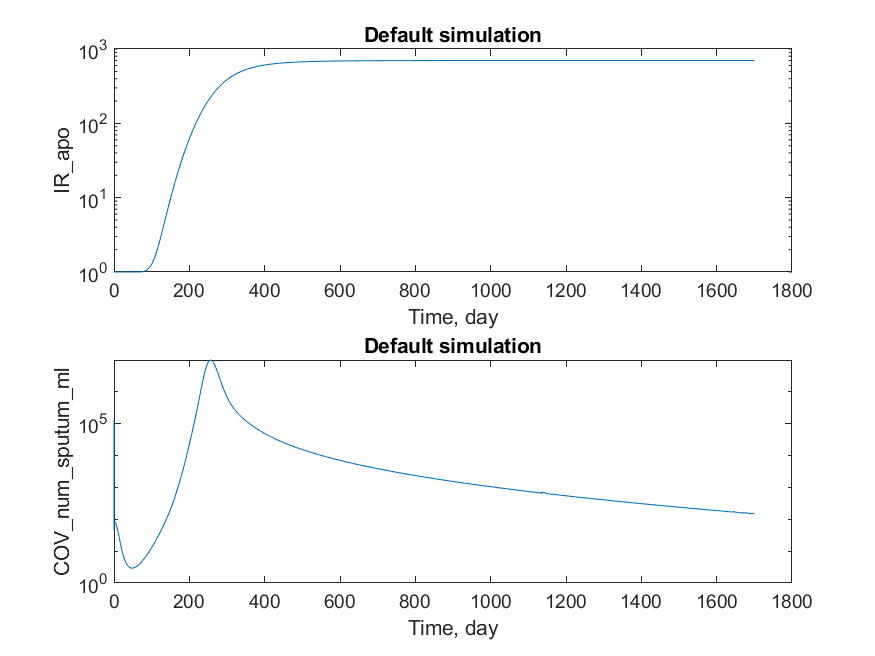
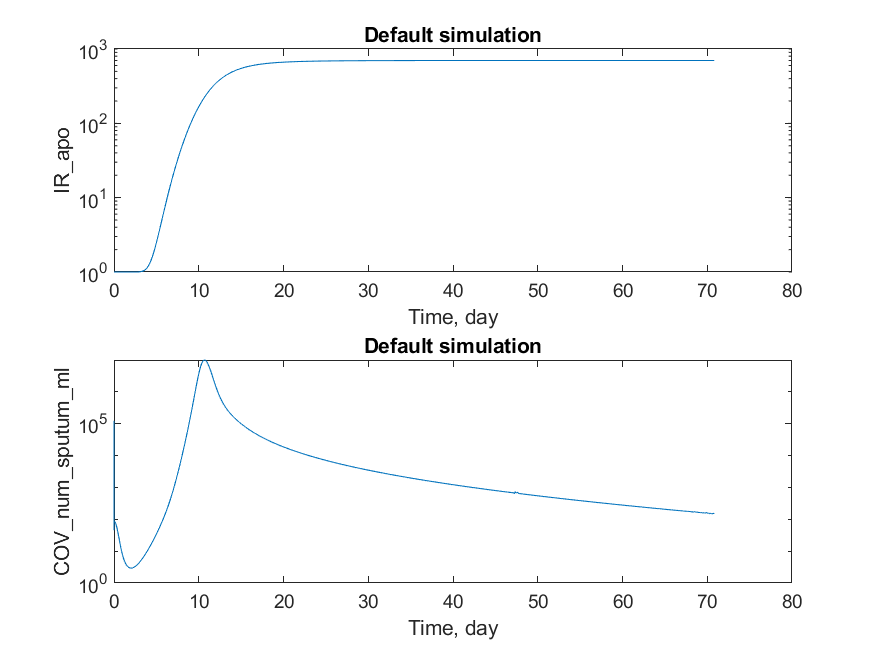
set day in simulations  comparison

diff --git a/diagnostics/matlab/run.m b/diagnostics/matlab/run.m
@@ -3,7 +3,7 @@ addpath("../../dist/covid19_integrated_matlab")
 
 p_names = ["kcell_to_cell", "NA_pmole", "sputum_dilution_coef", "k_apo_pc", "kbase_apo_vpc", "kbase_tran_pc_ipc", "kbase_tran_ipc_vpc", "k_shed_ace2_pc", "k_off_cov_ace2", "Num_sp_per_cov", "Kd_spike_ace2", "k_ent_cov_ipc", "k_rel_cov_vpc", "k_unc_cov_vpc", "k_rep_cov_rna_vpc", "EC50_rep_cov_rna_vpc", "k_ass_cov_vpc", "k_deg_cov", "Nmax_cov_per_cell", "k_deg_cov_rna", "T_sw_ir", "ET50_ir", "Emax_ir_apo", "n_ir", "Kd_anti_Ab", "anti_Ab_max", "Vol_pc", "L_to_mL"];
 output_names = ["time_day", "COVass_vpc", "Vol_alv", "vPC", "COVass_vpc_per_cell", "COV", "COV_RNA", "COV_num_sputum_ml", "PC", "iPC", "PC_tot", "PC_percent", "iPC_percent", "vPC_percent", "ACE2_pc", "ACE2_pc_per_cell", "COV_ACE2_pc", "COV_ACE2_pc_per_cell", "ACE2_pc_per_cell_tot", "ACE2_ipc", "ACE2_ipc_per_cell", "COV_ACE2_ipc", "COV_ACE2_ipc_per_cell", "ACE2_ipc_per_cell_tot", "ACE2_vpc", "ACE2_vpc_per_cell", "COV_ACE2_vpc", "COV_ACE2_vpc_per_cell", "ACE2_vpc_per_cell_tot", "COV_pc_per_cell_tot", "COV_ipc", "COV_ipc_per_cell", "COV_ipc_per_cell_tot", "COV_vpc", "COV_vpc_per_cell", "COV_RNA_vpc", "COV_RNA_vpc_per_cell", "COV_vpc_per_cell_tot", "COV_sgRNA_perc", "PC_hs_ss", "V_mat_pc", "k_tran_pc_ipc", "V_tran_pc_ipc", "k_tran_ipc_vpc", "V_tran_ipc_vpc", "V_apo_pc", "V_apo_ipc", "switch_ir", "IR_apo", "k_apo_vpc", "V_apo_vpc", "ACE2_pc_hs_ss", "k_syn_ace2_pc", "V_syn_ace2_pc", "V_shed_ace2_pc", "steric_factor_pc", "anti_Ab", "VO", "Kd_cov_ace2", "V_bind_cov_ace2_pc", "V_deg_ace2_apo_pc", "V_deg_cov_ace2_apo_pc", "V_tran_ace2_pc_ipc", "V_tran_cov_ace2_pc_ipc", "V_syn_ace2_ipc", "V_shed_ace2_ipc", "steric_factor_ipc", "V_bind_cov_ace2_ipc", "V_deg_ace2_apo_ipc", "V_deg_cov_ace2_apo_ipc", "V_deg_cov_apo_ipc", "V_ent_cov_ipc", "V_tran_ace2_ipc_vpc", "V_tran_cov_ace2_ipc_vpc", "V_tran_cov_ipc_vpc", "V_syn_ace2_vpc", "V_shed_ace2_vpc", "steric_factor_vpc", "V_bind_cov_ace2_vpc", "V_deg_ace2_apo_vpc", "V_deg_cov_ace2_apo_vpc", "V_ent_cov_vpc", "V_unc_cov_vpc", "V_rep_cov_rna_vpc", "V_ass_cov_vpc", "V_rel_cov_vpc", "V_deg_cov_apo_vpc", "V_deg_cov_ass_apo_vpc", "V_deg_cov_rna_apo_vpc", "V_deg_cov", "V_deg_cov_rna"];
-show_names = ["IR_apo", "COV_num_sputum_ml"];
+show_names = ["IR_apo", "COV_num_sputum_ml", "time_day"];
 
 p = param();
 [ode_func, out_func, y0, events] = model(p);
@@ -33,13 +33,13 @@ end
 fig = figure(1);
 % plot IR_apo
 subplot(2, 1, 1); % [rows, colomns]
-semilogy(tout, output(:, loc(1)));
+semilogy(output(:, loc(3)), output(:, loc(1)));
 xlabel('Time, day');
 ylabel('IR_apo', 'Interpreter', 'none');
 title('Default simulation', 'Interpreter', 'none');
 % plot COV_num_sputum_ml
 subplot(2, 1, 2);
-semilogy(tout, output(:, loc(2)));
+semilogy(output(:, loc(3)), output(:, loc(2)));
 xlabel('Time, day');
 ylabel('COV_num_sputum_ml', 'Interpreter', 'none');
 title('Default simulation', 'Interpreter', 'none');
